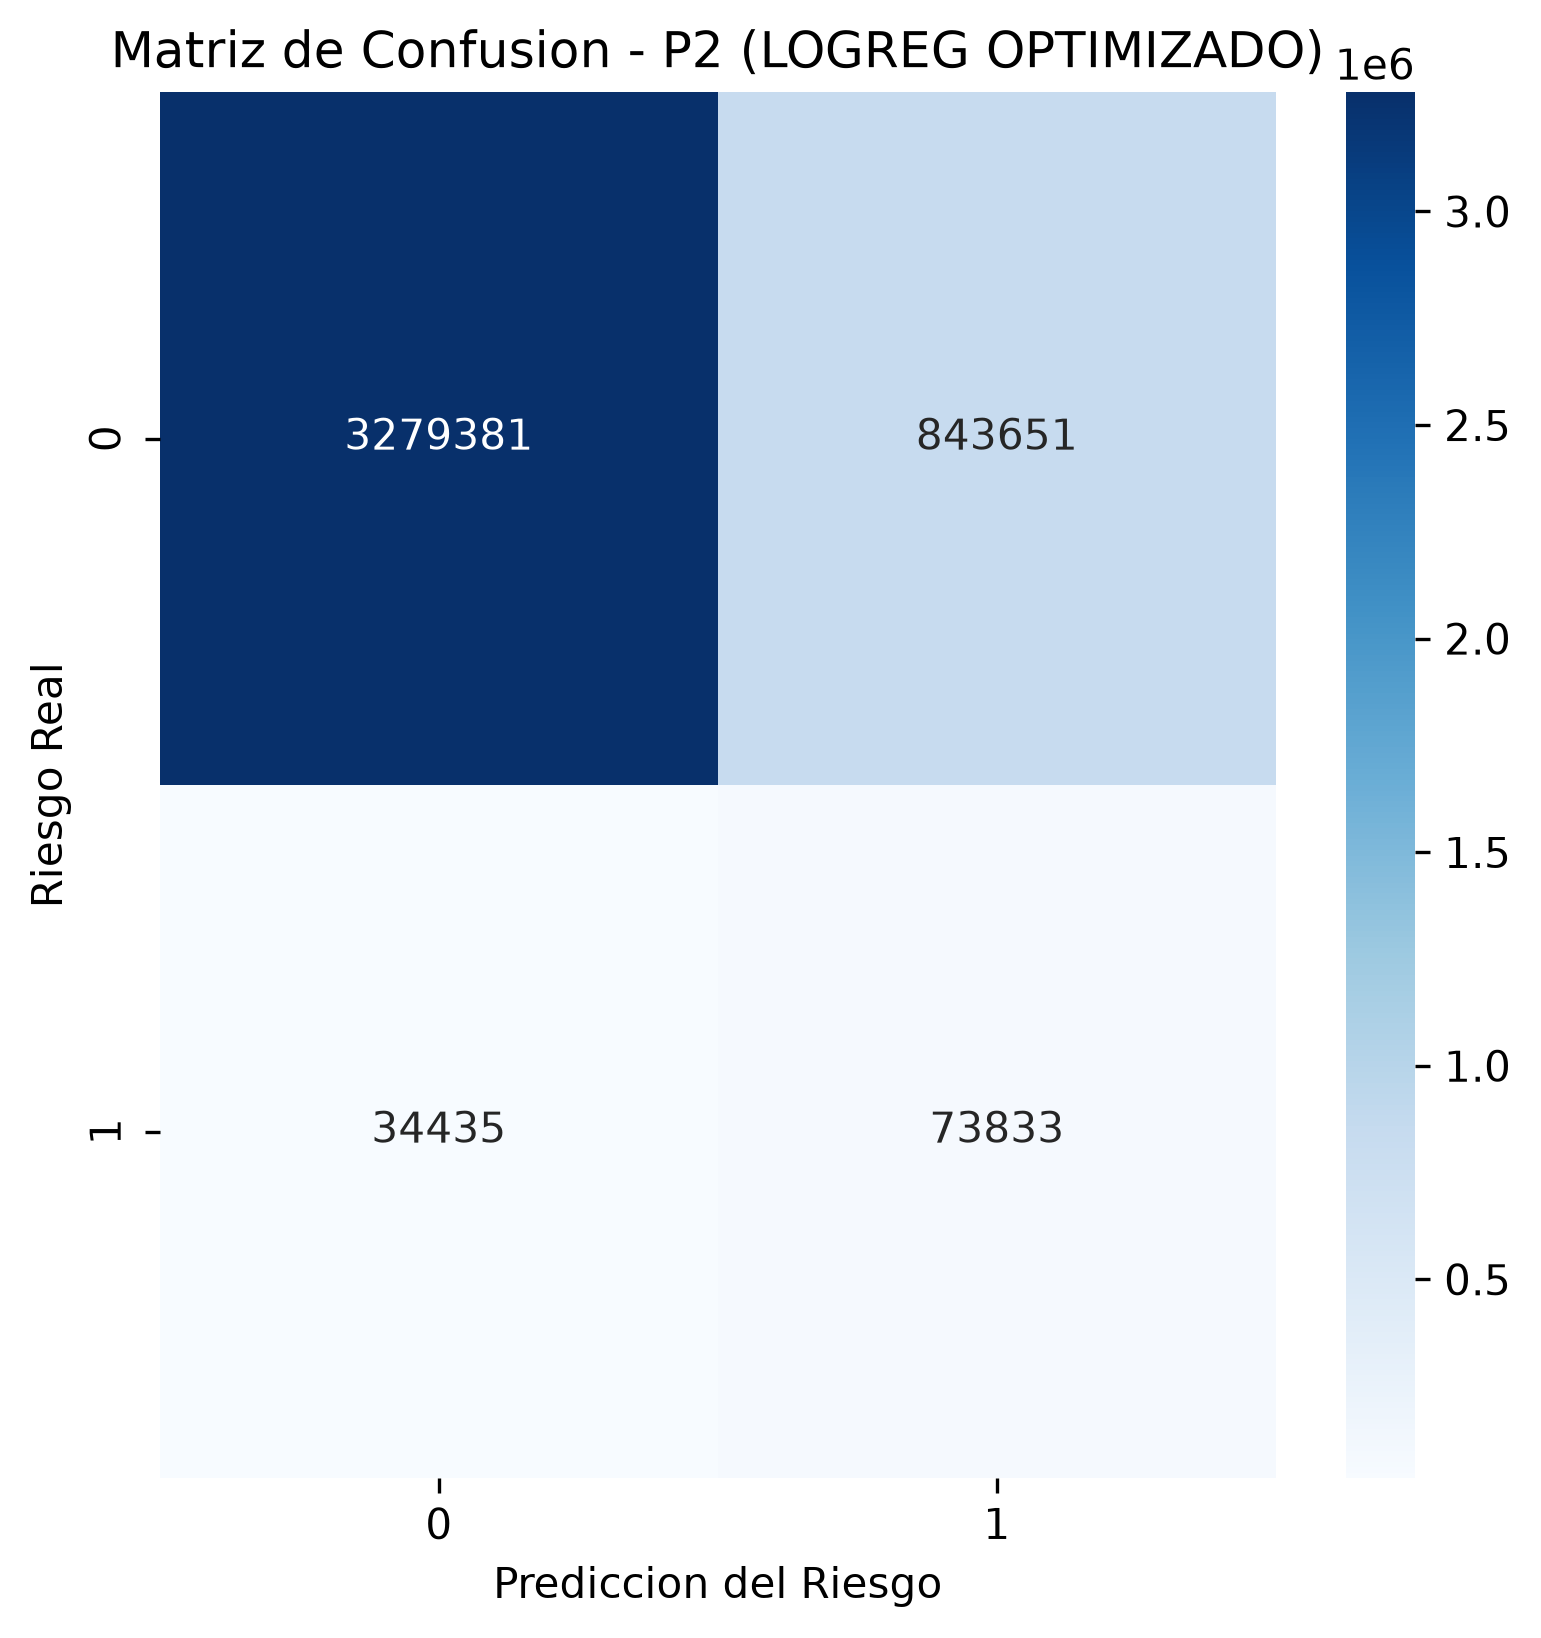
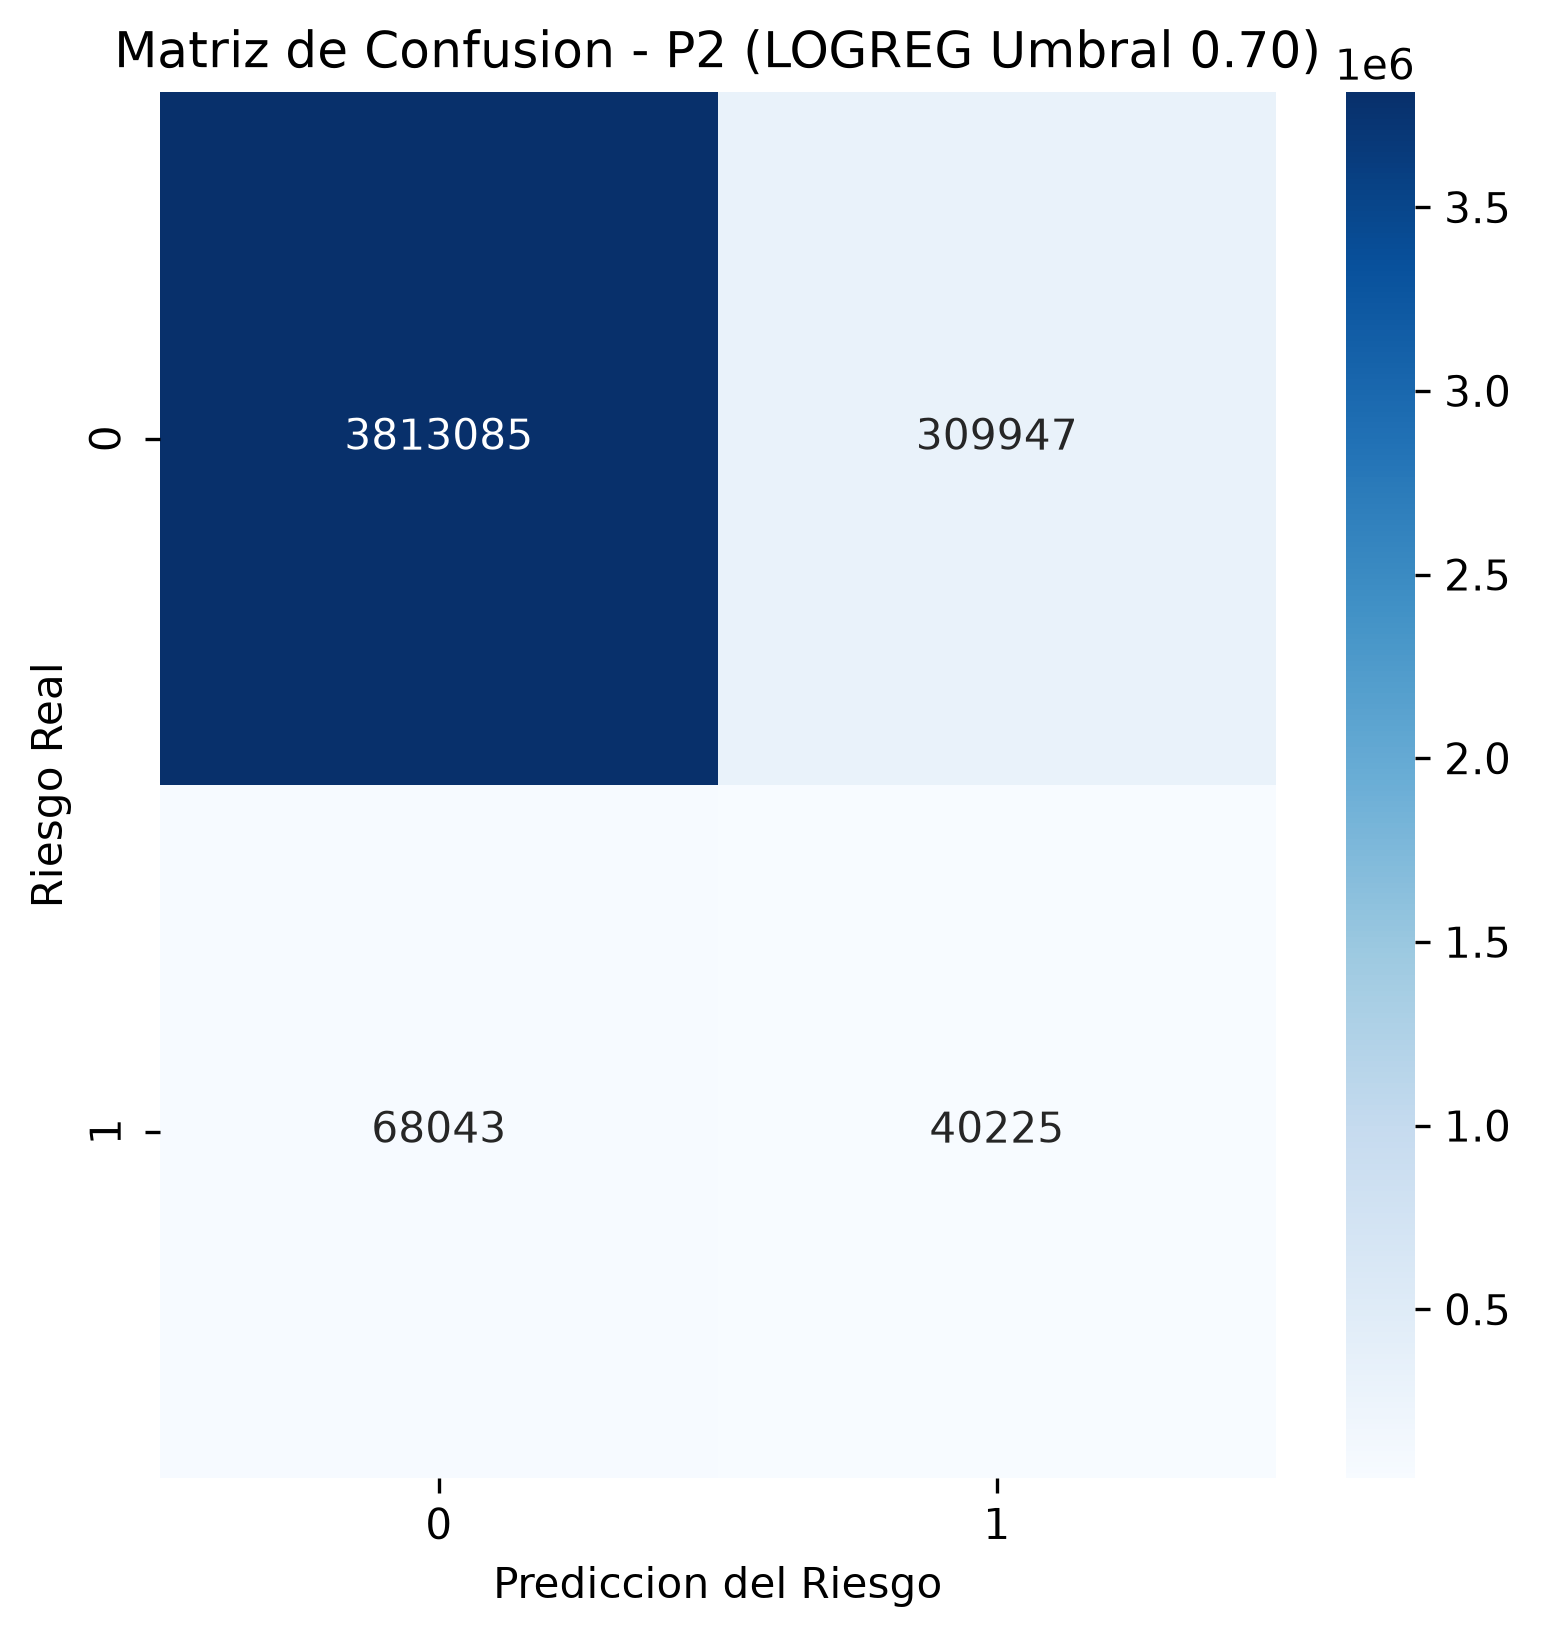
feature(Thresehold & Exploratory Models) Se aplica la busqueda por umbral y se proponen modelos para compararlos con los baselines

diff --git a/mibici/modeling/train.py b/mibici/modeling/train.py
@@ -24,6 +24,7 @@ import seaborn as sns
 from sklearn.cluster import KMeans
 from sklearn.dummy import DummyClassifier
 from sklearn.linear_model import LogisticRegression
+from sklearn.ensemble import GradientBoostingRegressor
 from sklearn.metrics import (
     PrecisionRecallDisplay,
     average_precision_score,
@@ -390,6 +391,29 @@ def train_p3_search(
                 
                 logger.success(f"Nested run y artefactos guardados para K={k} con Silhouette: {sil_score:.4f}")
 
+    # Nuevo modelo "Gaussian Mixture Model (GMM)"
+    with mlflow.start_run(run_name="p3-parent-search-gmm"):
+        mlflow.set_tags(run_tags("P3"))
+        mlflow.set_tag("stage_of_work", "search")
+        mlflow.set_tag("model_family", "gaussian_mixture")
+        mlflow.log_params(split_params())
+        mlflow.log_params(data_params())
+        
+        from sklearn.mixture import GaussianMixture
+        for k in k_values:
+            with mlflow.start_run(run_name=f"p3-candidate-gmm-k{k}", nested=True):
+                gmm = GaussianMixture(n_components=k, random_state=SEED, n_init=5)
+                labels_gmm = gmm.fit_predict(X_profiles)
+                sil_score_gmm = silhouette_score(X_profiles, labels_gmm)
+                
+                mlflow.log_param("model_type", "GaussianMixture")
+                mlflow.log_param("n_clusters", k)
+                mlflow.log_metric("test_silhouette_score", sil_score_gmm)
+                
+                tags_gmm = run_tags("P3")
+                tags_gmm.update({"stage_of_work": "candidate", "model_family": "gaussian_mixture"})
+                mlflow.set_tags(tags_gmm)
+
 @app.command("p1")
 def train_p1(
     model: str = typer.Option("ridge", help="Baseline: 'ridge' | Candidato: 'rf'"),
@@ -622,6 +646,33 @@ def train_p1_search(
                 
                 # mlflow.log_artifact(str(fig_path), artifact_path="figures")
                # logger.success(f"Nested run - n_estimators={n_est} - Test MAE: {metrics['mae']:.3f}")
+    
+    # Modelo de "Gradient Boosting"
+    with mlflow.start_run(run_name="p1-parent-search-gbr"):
+        mlflow.set_tags(run_tags("P1"))
+        mlflow.set_tag("stage_of_work", "search")
+        mlflow.set_tag("model_family", "gradient_boosting")
+        mlflow.log_params(split_params())
+        mlflow.log_params(data_params())
+        
+        for n_est in estimators_values:
+            with mlflow.start_run(run_name=f"p1-candidate-gbr-n{n_est}", nested=True):
+                model_gbr = GradientBoostingRegressor(n_estimators=n_est, max_depth=5, random_state=SEED)
+                logger.info(f"Entrenando candidato GBR con n_estimators={n_est}...")
+                model_gbr.fit(train[FEATURES], train[TARGET])
+                
+                y_pred_gbr = np.clip(model_gbr.predict(test_df[FEATURES]), 0, None)
+                metrics_gbr = regression_metrics(y_real, y_pred_gbr)
+                
+                mlflow.log_param("model_type", "GradientBoostingRegressor")
+                mlflow.log_param("n_estimators", n_est)
+                mlflow.log_metric("test_mae", metrics_gbr["mae"])
+                mlflow.log_metric("test_rmse", metrics_gbr["rmse"])
+                mlflow.log_metric("test_r2", metrics_gbr["r2"])
+                
+                tags_gbr = run_tags("P1")
+                tags_gbr.update({"stage_of_work": "candidate", "model_family": "gradient_boosting"})
+                mlflow.set_tags(tags_gbr)
 
 @app.command("p2")
 def train_p2(
@@ -740,6 +791,7 @@ def train_p2(
             C_values = [0.1, 1.0, 10.0]
             mejor_f1_val = -1
             mejor_C = None
+            mejor_umbral_global = 0.5 # Guardará el umbral óptimo
 
             for c_val in C_values:
                 with mlflow.start_run(run_name=f"p2-child-logreg-C{c_val}", nested=True):
@@ -752,8 +804,128 @@ def train_p2(
                         LogisticRegression(C=c_val, class_weight="balanced", random_state=SEED, max_iter=1000),
                     )
                     sub_model.fit(X_train, y_train)
+                    y_val_prob = sub_model.predict_proba(X_val)[:, 1]
                     
-                    # Evaluación en VALIDACIÓN para selección de hiperparámetros (sin fuga de test)
+                    # Buscar el mejor umbral en Validación
+                    f1_max_umbral = 0
+                    mejor_umbral = 0.5
+                    for umbral in np.linspace(0.3, 0.7, 41): # Prueba 41 umbrales entre 0.3 y 0.7
+                        y_val_pred_u = (y_val_prob >= umbral).astype(int)
+                        f1_u = f1_score(y_val, y_val_pred_u, average="macro", zero_division=0)
+                        if f1_u > f1_max_umbral:
+                            f1_max_umbral = f1_u
+                            mejor_umbral = umbral
+                    
+                    # Evaluar con el mejor umbral encontrado
+                    y_val_pred_opt = (y_val_prob >= mejor_umbral).astype(int)
+                    val_metrics = {
+                        "val_precision": precision_score(y_val, y_val_pred_opt, zero_division=0),
+                        "val_recall": recall_score(y_val, y_val_pred_opt, zero_division=0),
+                        "val_f1_macro": f1_max_umbral,
+                        "val_roc_auc": roc_auc_score(y_val, y_val_prob),
+                    }
+                    mlflow.log_param("C", c_val)
+                    mlflow.log_param("umbral_optimo_val", round(mejor_umbral, 3))
+                    mlflow.log_metrics(val_metrics)
+
+                    if val_metrics["val_f1_macro"] > mejor_f1_val:
+                        mejor_f1_val = val_metrics["val_f1_macro"]
+                        mejor_C = c_val
+                        mejor_umbral_global = mejor_umbral
+
+            # Entrenar modelo final y evaluar en TEST con el umbral óptimo
+            logger.info(f"Mejor C (Val): {mejor_C} | Mejor Umbral (Val): {mejor_umbral_global:.3f}")
+            mejor_modelo = make_pipeline(
+                StandardScaler(),
+                LogisticRegression(C=mejor_C, class_weight="balanced", random_state=SEED, max_iter=1000),
+            )
+            mejor_modelo.fit(X_train, y_train)
+            
+            y_prob = mejor_modelo.predict_proba(X_test)[:, 1]
+            y_pred = (y_prob >= mejor_umbral_global).astype(int) # Predicción con umbral ajustado
+
+            test_metrics = {
+                "test_precision": precision_score(y_test, y_pred, zero_division=0),
+                "test_recall": recall_score(y_test, y_pred, zero_division=0),
+                "test_f1_macro": f1_score(y_test, y_pred, average="macro", zero_division=0),
+                "test_roc_auc": roc_auc_score(y_test, y_prob),
+            }
+            mlflow.log_param("best_C", mejor_C)
+            mlflow.log_param("umbral_final", round(mejor_umbral_global, 3))
+            mlflow.log_metrics(test_metrics)
+
+            signature = infer_signature(X_test, y_pred)
+            mlflow.sklearn.log_model(mejor_modelo, artifact_path="model", signature=signature, input_example=X_test.head(5))
+            
+            if MANIFEST_PATH.exists():
+                ds = mlflow.data.from_pandas(X_train, source=str(MANIFEST_PATH), name="mibici_p2_train")
+                mlflow.log_input(ds, context="training")
+
+            MODELS_DIR.mkdir(parents=True, exist_ok=True)
+            joblib.dump(mejor_modelo, model_path)
+            mlflow.log_artifact(str(model_path), artifact_path="model")
+            
+            # Artefactos
+            FIGURES_DIR.mkdir(parents=True, exist_ok=True)
+            plt.figure(figsize=(6, 6))
+            sns.heatmap(confusion_matrix(y_test, y_pred), annot=True, fmt="d", cmap="Blues")
+            plt.title(f"Matriz de Confusion - P2 (LOGREG Umbral {mejor_umbral_global:.2f})")
+            plt.xlabel("Prediccion del Riesgo")
+            plt.ylabel("Riesgo Real")
+            artifact_path = FIGURES_DIR / "matriz_confusion_p2_logreg.png"
+            plt.savefig(artifact_path, dpi=300, bbox_inches="tight")
+            mlflow.log_artifact(str(artifact_path), artifact_path="classification_artifacts")
+            plt.close()
+
+            # Curva PR con el umbral marcado
+            fig, ax = plt.subplots(figsize=(6, 5))
+            PrecisionRecallDisplay.from_predictions(
+                y_test, y_prob, name="LogReg", plot_chance_level=True, drop_intermediate=True, ax=ax
+            )
+            # Dibujar el punto exacto de nuestro umbral óptimo (ya calculado en y_pred)
+            precision_opt = precision_score(y_test, y_pred, zero_division=0)
+            recall_opt = recall_score(y_test, y_pred, zero_division=0)
+            
+            ax.plot(recall_opt, precision_opt, 'ro', markersize=8, label=f'Umbral {mejor_umbral_global:.2f} (Val)')
+            ax.legend()
+                
+            ax.set_title("Curva Precision-Recall - P2 (LOGREG)")
+            pr_path = FIGURES_DIR / "curva_pr_p2_logreg.png"
+            fig.savefig(pr_path, dpi=150, bbox_inches="tight")
+            mlflow.log_artifact(str(pr_path), artifact_path="classification_artifacts")
+            plt.close(fig)
+            mlflow.log_metric("test_average_precision", average_precision_score(y_test, y_prob))
+
+            logger.success(f"Búsqueda nested runs P2 finalizada. Mejor F1 Macro (Val): {mejor_f1_val:.3f}")
+    # Nuevo modelo elgido "rf"
+    elif model_name == "rf":
+        from sklearn.ensemble import RandomForestClassifier
+        with mlflow.start_run(run_name="P2-parent-search-rf"):
+            parent_tags = run_tags("P2")
+            parent_tags.update({"model_family": "random_forest", "stage_of_work": "search"})
+            mlflow.set_tags(parent_tags)
+            mlflow.log_params(split_params())
+            mlflow.log_params(data_params())
+            mlflow.log_params({
+                "modelo": model_name,
+                "random_state": SEED,
+                "risk_horizon_hours": RISK_HORIZON_HOURS,
+                "risk_alpha": RISK_ALPHA,
+            })
+
+            n_estimators_list = [50, 100, 200]
+            mejor_f1_val = -1
+            mejor_n = None
+
+            for n_est in n_estimators_list:
+                with mlflow.start_run(run_name=f"p2-child-rf-n{n_est}", nested=True):
+                    child_tags = run_tags("P2")
+                    child_tags.update({"model_family": "random_forest", "stage_of_work": "candidate"})
+                    mlflow.set_tags(child_tags)
+                    
+                    sub_model = RandomForestClassifier(n_estimators=n_est, class_weight="balanced", random_state=SEED, max_depth=10)
+                    sub_model.fit(X_train, y_train)
+                    
                     y_val_pred = sub_model.predict(X_val)
                     y_val_prob = sub_model.predict_proba(X_val)[:, 1]
                     
@@ -763,19 +935,15 @@ def train_p2(
                         "val_f1_macro": f1_score(y_val, y_val_pred, average="macro", zero_division=0),
                         "val_roc_auc": roc_auc_score(y_val, y_val_prob),
                     }
-                    mlflow.log_param("C", c_val)
+                    mlflow.log_param("n_estimators", n_est)
                     mlflow.log_metrics(val_metrics)
 
                     if val_metrics["val_f1_macro"] > mejor_f1_val:
                         mejor_f1_val = val_metrics["val_f1_macro"]
-                        mejor_C = c_val
+                        mejor_n = n_est
 
-            # Entrenar modelo final con el mejor C encontrado en val, evaluando una sola vez en TEST
-            logger.info(f"Mejor C encontrado en validación: {mejor_C}")
-            mejor_modelo = make_pipeline(
-                StandardScaler(),
-                LogisticRegression(C=mejor_C, class_weight="balanced", random_state=SEED, max_iter=1000),
-            )
+            logger.info(f"Mejor n_estimators encontrado en validación: {mejor_n}")
+            mejor_modelo = RandomForestClassifier(n_estimators=mejor_n, class_weight="balanced", random_state=SEED, max_depth=10)
             mejor_modelo.fit(X_train, y_train)
             y_pred = mejor_modelo.predict(X_test)
             y_prob = mejor_modelo.predict_proba(X_test)[:, 1]
@@ -786,49 +954,12 @@ def train_p2(
                 "test_f1_macro": f1_score(y_test, y_pred, average="macro", zero_division=0),
                 "test_roc_auc": roc_auc_score(y_test, y_prob),
             }
-            mlflow.log_param("best_C", mejor_C)
+            mlflow.log_param("best_n_estimators", mejor_n)
             mlflow.log_metrics(test_metrics)
 
             signature = infer_signature(X_test, y_pred)
-            mlflow.sklearn.log_model(
-                mejor_modelo, 
-                artifact_path="model", 
-                signature=signature, 
-                input_example=X_test.head(5)
-            )
-            
-            if MANIFEST_PATH.exists():
-                ds = mlflow.data.from_pandas(X_train, source=str(MANIFEST_PATH), name="mibici_p2_train")
-                mlflow.log_input(ds, context="training")
-
-            MODELS_DIR.mkdir(parents=True, exist_ok=True)
-            joblib.dump(mejor_modelo, model_path)
-            mlflow.log_artifact(str(model_path), artifact_path="model")
-            
-            FIGURES_DIR.mkdir(parents=True, exist_ok=True)
-            plt.figure(figsize=(6, 6))
-            sns.heatmap(confusion_matrix(y_test, y_pred), annot=True, fmt="d", cmap="Blues")
-            plt.title("Matriz de Confusion - P2 (LOGREG OPTIMIZADO)")
-            plt.xlabel("Prediccion del Riesgo")
-            plt.ylabel("Riesgo Real")
-            artifact_path = FIGURES_DIR / "matriz_confusion_p2_logreg.png"
-            plt.savefig(artifact_path, dpi=300, bbox_inches="tight")
-            mlflow.log_artifact(str(artifact_path), artifact_path="classification_artifacts")
-            plt.close()
-
-            # Curva precisión-recall en test: la matriz de confusión solo muestra el umbral 0.5
-            fig, ax = plt.subplots(figsize=(6, 5))
-            PrecisionRecallDisplay.from_predictions(
-                y_test, y_prob, name="LogReg", plot_chance_level=True, drop_intermediate=True, ax=ax
-            )
-            ax.set_title("Curva Precision-Recall - P2 (LOGREG OPTIMIZADO)")
-            pr_path = FIGURES_DIR / "curva_pr_p2_logreg.png"
-            fig.savefig(pr_path, dpi=150, bbox_inches="tight")
-            mlflow.log_artifact(str(pr_path), artifact_path="classification_artifacts")
-            plt.close(fig)
-            mlflow.log_metric("test_average_precision", average_precision_score(y_test, y_prob))
-
-            logger.success(f"Búsqueda nested runs P2 finalizada. Mejor F1 Macro en val: {mejor_f1_val:.3f}")
+            mlflow.sklearn.log_model(mejor_modelo, artifact_path="model", signature=signature, input_example=X_test.head(5))
+            logger.success(f"Búsqueda nested runs P2 RF finalizada. Mejor F1 Macro en val: {mejor_f1_val:.3f}")
     else:
         raise ValueError(f"Modelo no valido: {model_name}. Usar 'dummy' o 'logreg'.")
 

diff --git a/README.md b/README.md
@@ -232,6 +232,20 @@ Las capturas de pantalla de los *runs*, artefactos y comparación de modelos se 
 reports/figures/mlflow_evidencia/
 ```
 
+### Comparación de Familias de Modelos
+
+Explorarando múltiples algoritmos, el pipeline de entrenamiento ahora compara distintas familias de modelos utilizando *nested runs* en MLflow para cada pregunta de investigación:
+
+- **P1 (Regresión):** Se compara el baseline (`Ridge`) contra `RandomForestRegressor` y la nueva familia `GradientBoostingRegressor`.
+- **P2 (Clasificación):** Se compara el baseline (`Dummy`) contra `LogisticRegression` y la nueva familia `RandomForestClassifier`.
+- **P3 (Clustering):** Se compara el baseline (`KMeans` con inicialización aleatoria) contra `KMeans++` y la nueva familia `GaussianMixture`.
+
+Para ejecutar las búsquedas de hiperparámetros y registrar los candidatos de estas nuevas familias en tu servidor local de MLflow, ejecuta:
+```bash
+python -m mibici.modeling.train p1-search
+python -m mibici.modeling.train p2 --model-name rf
+python -m mibici.modeling.train p3-search
+
 ## Buenas prácticas
 
 - **Métricas**: se nombran con el conjunto donde se calculan, `<split>_<métrica>` — `test_rmse`, `test_roc_auc`, `test_silhouette_score` (ver `mibici/modeling/train.py`).
